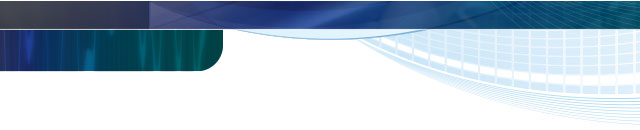
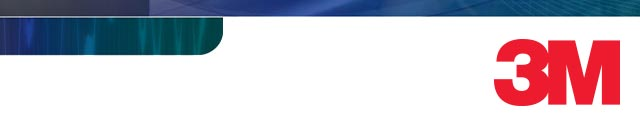
Communication Assets
Added styles and images for communications opening screens. Tweaked
opening screen per client request.

diff --git a/www/css/style.css b/www/css/style.css
@@ -217,6 +217,23 @@ h1 {
     margin-top: 1em;
 }
 
+.communication h2 {
+    color: #00a4e2;
+    font-family: 'Archivo Narrow',sans-serif;
+    font-size: 2em;
+    font-weight: 100;
+    margin-bottom: 0.2em;
+    margin-left: 0.3em;
+    margin-top: 0.2em;
+}
+
+.communication h2.question{
+    color: #00a4e2;
+    line-height: 1.1em;
+    margin-bottom: 0;
+    margin-top: 1em;
+}
+
 h2.product-name {
 	margin-bottom: 0;
 	text-align: center;
@@ -266,6 +283,13 @@ h4.bolder {
 
 .protection {
     background-image: url(../img/prot/protection_top_bg.jpg), url(../img/prot/protection_bottom_bg.jpg);
+    background-size: contain, contain;
+    background-repeat: no-repeat, no-repeat;
+    background-position: center top, center bottom;
+}
+
+.communication{
+    background-image: url(../img/comm/communication_top_bg.jpg), url(../img/comm/communication_bottom_bg.jpg);
     background-size: contain, contain;
     background-repeat: no-repeat, no-repeat;
     background-position: center top, center bottom;
@@ -322,6 +346,10 @@ header {
 
 .protection .select-button {
     background-color: #21409A;
+}
+
+.communication .select-button {
+    background-color: #00a4e2;
 }
 
 .select-button {
@@ -494,12 +522,29 @@ img.select-thumb {
     background: #eeb111;
 }
 
+.communication .question-choices li:nth-of-type(1) {
+    background: #00a4e2;
+}
+
+.protection .question-choices li:nth-of-type(2) {
+    background: #777777;
+}
+
+.protection .question-choices li:nth-of-type(3) {
+    background: #21409a;
+}
+
+
 .detection .product-desc {
     background: #edf8f8;
 }
 
 .protection .product-desc {
     background: #e1e6f4;
+}
+
+.communication .product-desc {
+    background: #e4e4e4;
 }
 
 .product-desc h3 {
@@ -691,7 +736,20 @@ h4 {
 
 .montage-top {
 	width:100%;
+	margin-top: 10px;
 }
+
+.bottom-montage {
+	width: 100%;
+}
+
+.home-icon {
+	left: 8px;
+	position: absolute;
+	top: 6px;
+	width: 10%;
+}
+
 
 #video_background {
 	position: absolute;
@@ -740,12 +798,12 @@ nav.cat-nav ul li a{
 	display: block;
 	font-family: 'Helvetica Neue',arial,sans-serif;
 	margin: 0.1em auto 0;
-	padding: 0.75em 0;
+	padding: 0.5em 0;
 	text-align: center;
 	text-decoration: none;
 	width: 100%;
 	font-weight:200;
-	font-size: 1.3em;
+	font-size: 1.1em;
 
 }
 
@@ -779,12 +837,8 @@ nav.cat-nav ul li a.pro-icon{
 
 
 nav.cat-nav ul li a.com-icon{
-	background-image: url(../img/coming_soon.png);
-	background-position: right top;
-	background-repeat: no-repeat;
-	background-size: auto 100%;
 	right: 100%;
-		background-color: #777777;
+	background-color: #00a4e2;
 	animation:slidein 1s;
 	animation-delay:0s;
 	animation-fill-mode: forwards;
@@ -795,18 +849,19 @@ nav.cat-nav ul li a.com-icon{
 }
 
 nav.cat-nav ul li a.val-icon{
-    background-image: url(../img/coming_soon.png);
-    background-position: right top;
-    background-repeat: no-repeat;
-    background-size: auto 100%;
-    right: 100%;
-    background: #22a9d6;
-    animation:slidein 1s;
-    animation-delay:0s;
-    animation-fill-mode: forwards;
-    -webkit-animation:slidein 1s;
-    -webkit-animation-delay:0s;
-    -webkit-animation-fill-mode: forwards;
+	background-image: url(../img/coming_soon.png);
+	background-position: right top;
+	background-repeat: no-repeat;
+	background-size: auto 100%;
+	right: 100%;
+	background: #777777;
+	animation:slidein 1s;
+	animation-delay:0s;
+	animation-fill-mode: forwards;
+	-webkit-animation:slidein 1s;
+	-webkit-animation-delay:0s;
+	-webkit-animation-fill-mode: forwards;
+
 }
 
 @keyframes slidein
@@ -857,4 +912,15 @@ img.prod-thumb {
 
 .small-text {
 	font-size: 0.5em;
+}
+
+.copy-wrap-select-box {
+	padding-top: 1.3em;
+	padding-bottom: 2.5em;
+}
+
+.question-select-box {
+	display: block;
+	margin: 0.5em auto 0;
+	width: 90%;
 }

diff --git a/www/index.html b/www/index.html
@@ -49,25 +49,36 @@
 		<nav class="cat-nav">
 			<ul>
 				<li>
-					<a class="next select-button det-icon">Detection
-						<img class="right-arrow" src="img/right_arrow.png"/>
+					<a class="next select-button det-icon">
+						<img class="home-icon" src="img/detection.png" />
+						Detection
+						<img class="right-arrow" src="img/right_arrow.png" />
 					</a>
 				</li>
 				<li>
-					<a class="next select-button pro-icon">Protection
-						<img class="right-arrow" src="img/right_arrow.png"/>
+					<a class="next select-button pro-icon">
+						<img class="home-icon" src="img/protection.png" />
+						Protection
+						<img class="right-arrow" src="img/right_arrow.png" />
 					</a>
 				</li>
-
 				<li>
-					<a class="next select-button com-icon">Communication</a>
+					<a class="next select-button com-icon">
+						<img class="home-icon" src="img/protection.png" />
+						Communication
+						<img class="right-arrow" src="img/right_arrow.png" />
+					</a>
 				</li>
-                <li>
-                    <a class="next select-button val-icon">Validation</a>
-                </li>
-            </ul>
+				<li>
+					<a class="next select-button val-icon">
+						<img class="home-icon" src="img/validation.png" />
+						Validation
+						<!--<img class="right-arrow" src="img/right_arrow.png" />-->
+					</a>
+				</li>
+			</ul>
 		</nav>
-		<img class="montage-top" src="img/bottom_montage.jpg"/>
+		<img class="bottom-montage" src="img/bottom_montage.jpg"/>
 	</section>
 
 	<section class="screen" data-screen="cat-intro"></section>
